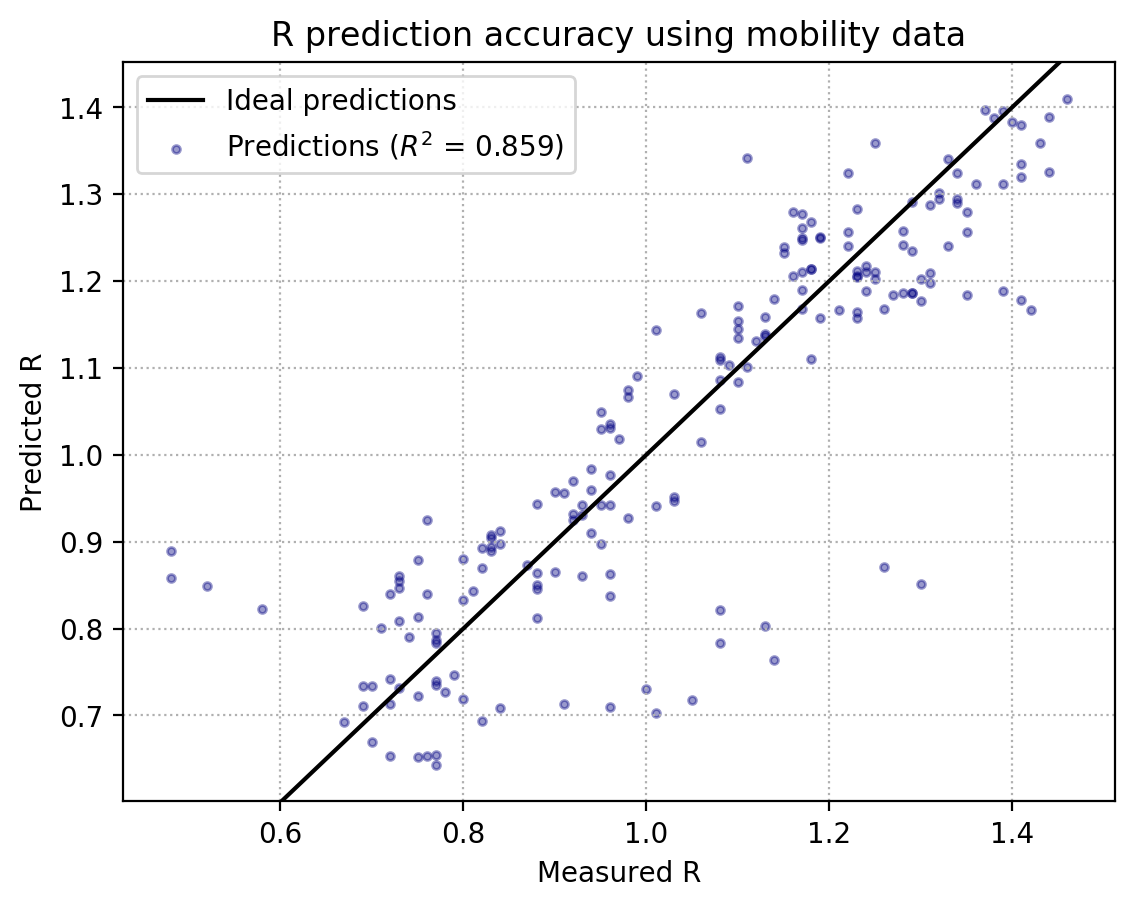
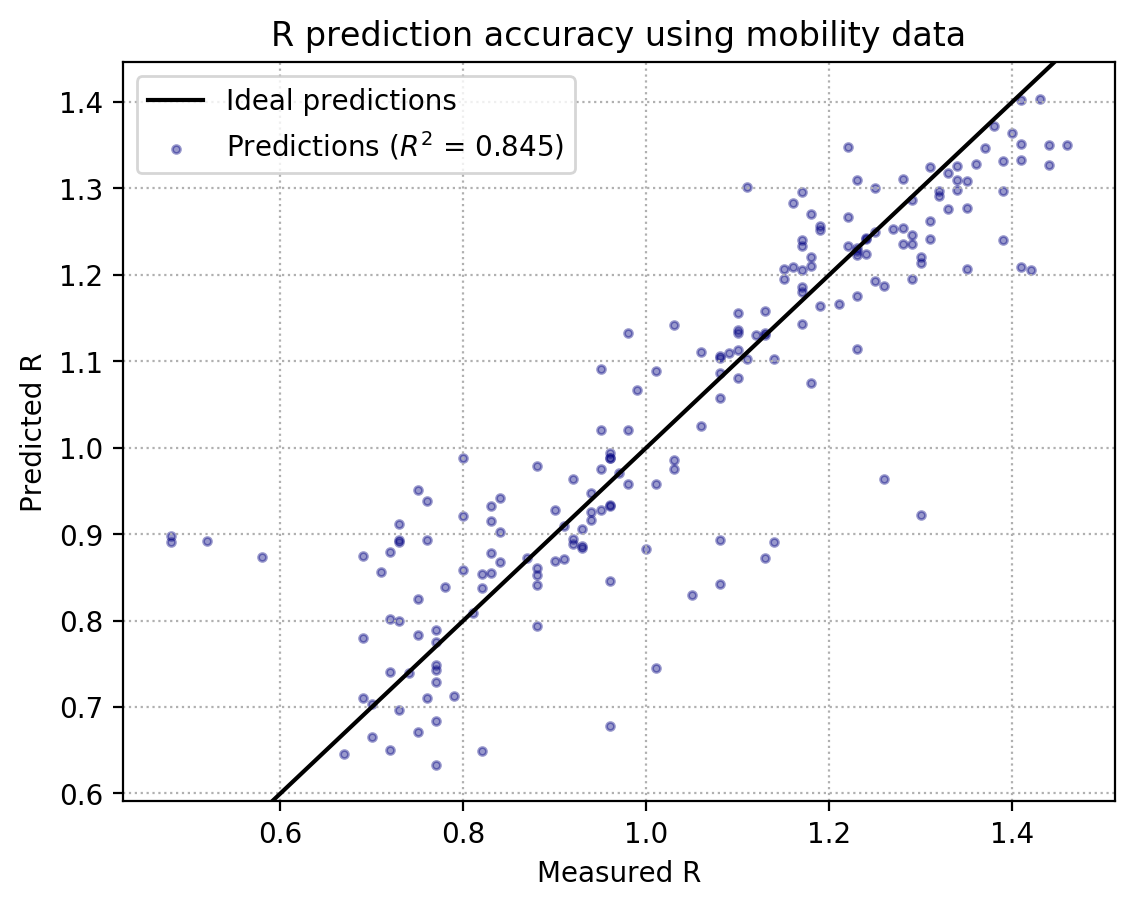
Added train/test split for R prediction. Test R^2 is 0.845, train R^2 is 0.888

diff --git a/model_coronavirus_supression.py b/model_coronavirus_supression.py
@@ -18,6 +18,7 @@ from zipfile import ZipFile
 import datetime as dt
 
 from sklearn.linear_model import Ridge, LinearRegression, Lasso
+from sklearn.model_selection import train_test_split, ShuffleSplit
 from sklearn.ensemble import AdaBoostRegressor, RandomForestRegressor
 
 dataloc = './Data/'
@@ -705,6 +706,61 @@ def load_cluster_data():
 
 	return df_clusters
 
+def load_weather_data(smooth = False):
+	"""
+	Load weather data from the KNMI, location De Bilt. More info:
+	https://www.knmi.nl/nederland-nu/klimatologie/daggegevens
+	"""
+
+	url_weather = 'https://cdn.knmi.nl/knmi/map/page/klimatologie/gegevens/daggegevens/etmgeg_260.zip'
+	fname_weather_zip = f'{dataloc}daily_weather.zip'
+	fname_weather = f'{dataloc}daily_weather.txt'
+
+	downloaded = downloadSave(url_weather, fname_weather_zip, check_file_exists = True)
+
+	if downloaded:
+		#unzip
+		unziploc = f'{dataloc}unzip/'
+		with ZipFile(fname_weather_zip, 'r') as zfile:
+			os.mkdir(unziploc)
+			zfile.extractall(unziploc)
+
+		#get the desired file
+		zipfilename = glob.glob(unziploc + '*.txt')[0]
+		# print(zipfilename)
+		# #rename
+		os.rename(zipfilename, fname_weather)
+
+		#remove downloaded files
+		shutil.rmtree(unziploc)
+		#also remove zip file
+		# os.remove(google_mobility_fname_zip)
+
+	df_weather = pd.read_csv(fname_weather, skiprows = 47, usecols = ['YYYYMMDD', '   TG', '    Q', '   UG'])
+
+	df_weather = df_weather.rename(columns = {'YYYYMMDD': 'Date', '   TG': 'TAvg', '    Q': 'Rad', '   UG': 'HumAvg'})
+
+	df_weather['Date'] = pd.to_datetime(df_weather['Date'], format = '%Y%m%d')
+	df_weather.set_index('Date', inplace = True)
+
+	#select data from start of the pandemic
+	df_weather = df_weather.loc[df_weather.index > '2020-02-15']
+
+	#convert average temperature from 0.1 degrees C to 1 degree C
+	df_weather['TAvg'] /= 10
+
+	#smooth data if desired
+	if smooth:
+		windowsize = 3
+
+		df_weather = df_weather.rolling(windowsize).mean()
+
+	# fig, ax = plt.subplots()
+	# ax.plot(df_weather.index, df_weather['Rad'])
+	# plt.show()
+
+	return df_weather
+
 
 def average_kernel(size = 7):
 	return np.ones(size)/size
@@ -800,6 +856,11 @@ def shade_region(ax, dates, colour = 'black', alpha = 0.2, label = None):
 	ax.set_xlim(xlims)
 	ax.set_ylim(ylims)
 
+def indicate_school_closed(ax):
+	autumn_break_dates = get_period_dates('autumn break')
+	shade_region(ax, autumn_break_dates, label = 'School closure/vacations')
+	school_closure_dates = get_period_dates('school closure')
+	shade_region(ax, school_closure_dates)
 
 def plot_prevalence_R():
 	df_prevalence, df_R0 = load_prevalence_R0_data()
@@ -1245,10 +1306,7 @@ def plot_cluster_change():
 		ax.plot(df_clusters.index, df_clusters[key], label = plot_columns[key], color = scalarMap.to_rgba(i))
 
 	#also indicate school closures etc
-	autumn_break_dates = get_period_dates('autumn break')
-	shade_region(ax, autumn_break_dates, label = 'School closure/vacations')
-	school_closure_dates = get_period_dates('school closure')
-	shade_region(ax, school_closure_dates)
+	indicate_school_closed(ax)
 
 	ax.set_ylabel('Number of clusters')
 	ax.set_title('Number of COVID-19 clusters in different settings per week')
@@ -1461,6 +1519,7 @@ def estimate_recent_R(enddate_train = '2020-10-25'):
 	df_prevalence, df_R = load_prevalence_R0_data()
 	df_google_mob, df_apple_mob = load_mobility_data(smooth = True)
 	df_sewage = load_sewage_data(smooth = True, shiftdates = True)
+	df_weather = load_weather_data(smooth = True)
 	#for the plot as a reference as well as data input
 	df_response = load_government_response_data()
 	df_response_plot = df_response.loc[df_response.index > startdate_pred]
@@ -1474,6 +1533,7 @@ def estimate_recent_R(enddate_train = '2020-10-25'):
 	df_mob_R = df_mob_R.join(df_apple_mob, how = 'inner')
 	df_mob_R = df_mob_R.join(df_sewage[['RNA_flow_smooth']], how = 'inner')
 	df_mob_R = df_mob_R.join(df_response, how = 'inner')
+	df_mob_R = df_mob_R.join(df_weather, how = 'inner')
 
 	#select date range
 	mask = (df_mob_R.index > '2020-04-01') & (df_mob_R.index <= enddate_train)
@@ -1544,16 +1604,31 @@ def estimate_recent_R(enddate_train = '2020-10-25'):
 			'workplaces_smooth',
 			'driving_smooth',
 			'walking_smooth',
-			'transit_smooth'
+			'transit_smooth',
+			'TAvg',
+			'Rad'
 		] + list(df_response.columns)
 		#get the multiple parameters into a single array
-		# X_train = np.zeros((len(df_train), len(best_correlating_metrics)))
-		# for i in range(len(best_correlating_metrics)):
-		# 	X_train[:,i] = np.array(df_train[best_correlating_metrics[i]])
-		X_train = dataframes_to_NDarray(df_train, best_correlating_metrics)
-		Y_train = np.array(df_train['Rt_avg'])
+		X = dataframes_to_NDarray(df_train, best_correlating_metrics)
+		Y = np.array(df_train['Rt_avg'])
+		#weights are important; can reduce training R^2 from 0.859 to 0.820
+		weight = 1/np.array(df_train['Rt_abs_error'])
 
-		weight_train = 1/np.array(df_train['Rt_abs_error'])
+		###split into train and test set
+		rs = ShuffleSplit(n_splits = 1, test_size = 0.2, random_state = 1923)
+
+		#get splitting indices
+		for train_index, test_index in rs.split(X, Y):
+			pass
+
+		#perform splitting
+		X_train = X[train_index]
+		Y_train = Y[train_index]
+		weight_train = weight[train_index]
+
+		X_test = X[test_index]
+		Y_test = Y[test_index]
+		weight_test = weight[test_index]
 
 		#apply ridge regression, see here for more info:
 		#https://scikit-learn.org/stable/modules/generated/sklearn.linear_model.Ridge.html#sklearn.linear_model.Ridge
@@ -1566,15 +1641,17 @@ def estimate_recent_R(enddate_train = '2020-10-25'):
 		clf.fit(X_train, Y_train, sample_weight = weight_train)
 		# clf.fit(X_train, Y_train)
 
-		r_squared = clf.score(X_train, Y_train, sample_weight = weight_train)
+		r_squared_train = clf.score(X_train, Y_train, sample_weight = weight_train)
+		r_squared_test = clf.score(X_test, Y_test, sample_weight = weight_test)
 		# r_squared = clf.score(X_train, Y_train)
 
-		print(f'R^2: {r_squared:0.03f}')
+		print(f'Train R^2: {r_squared_train:0.03f}')
+		print(f'Test R^2: {r_squared_test:0.03f}')
 
 		### plot the predictions versus ground truth
 		fig, ax = plt.subplots()
 
-		ax.scatter(Y_train, clf.predict(X_train), alpha = 0.4, color = 'navy', s = 8, label = f'Predictions ($R^2$ = {r_squared:0.03f})')
+		ax.scatter(Y, clf.predict(X), alpha = 0.4, color = 'navy', s = 8, label = f'Predictions ($R^2$ = {r_squared_test:0.03f})')
 		#indicate one to one relationship
 		xlims = ax.get_xlim()
 		ylims = ax.get_ylim()
@@ -1612,7 +1689,7 @@ def estimate_recent_R(enddate_train = '2020-10-25'):
 		#indicate error margins on ground truth
 		ax1.fill_between(df_pred.index, df_pred['Rt_low'], df_pred['Rt_up'], alpha = 0.4, color = betterblue)
 
-		ln2 = ax1.plot(df_pred.index, Y_pred, label = f'Prediction ($R^2$: {r_squared:0.03f})', color = betterorange)
+		ln2 = ax1.plot(df_pred.index, Y_pred, label = f'Prediction ($R^2$: {r_squared_test:0.03f})', color = betterorange)
 
 		#also plot government response
 		#limit to days with prediction data
@@ -1631,6 +1708,8 @@ def estimate_recent_R(enddate_train = '2020-10-25'):
 		ax1.set_title('$R$ prediction')
 
 		ax2.set_ylim(0)
+
+		indicate_school_closed(ax1)
 
 		#fix date ticks
 		ax1.set_xticks(pd.date_range(np.min(df_pred.index), np.max(df_pred.index + pd.Timedelta(f'7 day')), freq = '2W'))
@@ -1855,7 +1934,7 @@ def main():
 
 	# plot_superspreader_events()
 
-	# estimate_recent_R(enddate_train = '2020-10-28')
+	estimate_recent_R(enddate_train = '2020-10-28')
 
 	# estimate_recent_prevalence(enddate_train = '2020-11-01')
 
@@ -1865,7 +1944,7 @@ def main():
 	# plot_daily_results()
 	# plot_sewage()
 	# plot_individual_data()
-	plot_cluster_change()
+	# plot_cluster_change()
 
 if __name__ == '__main__':
 	main()
